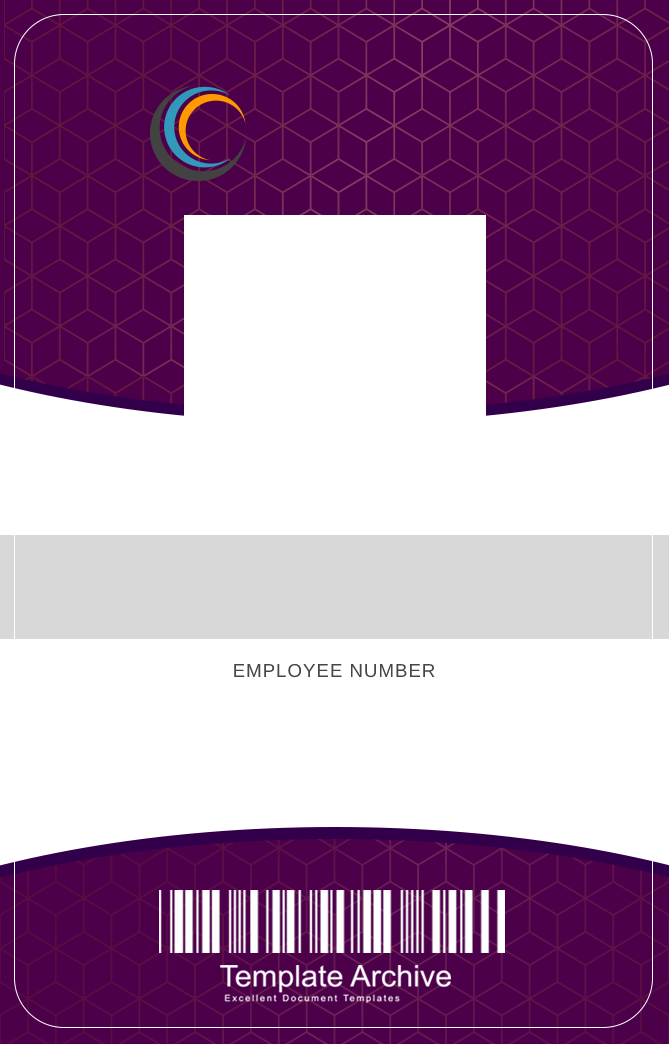
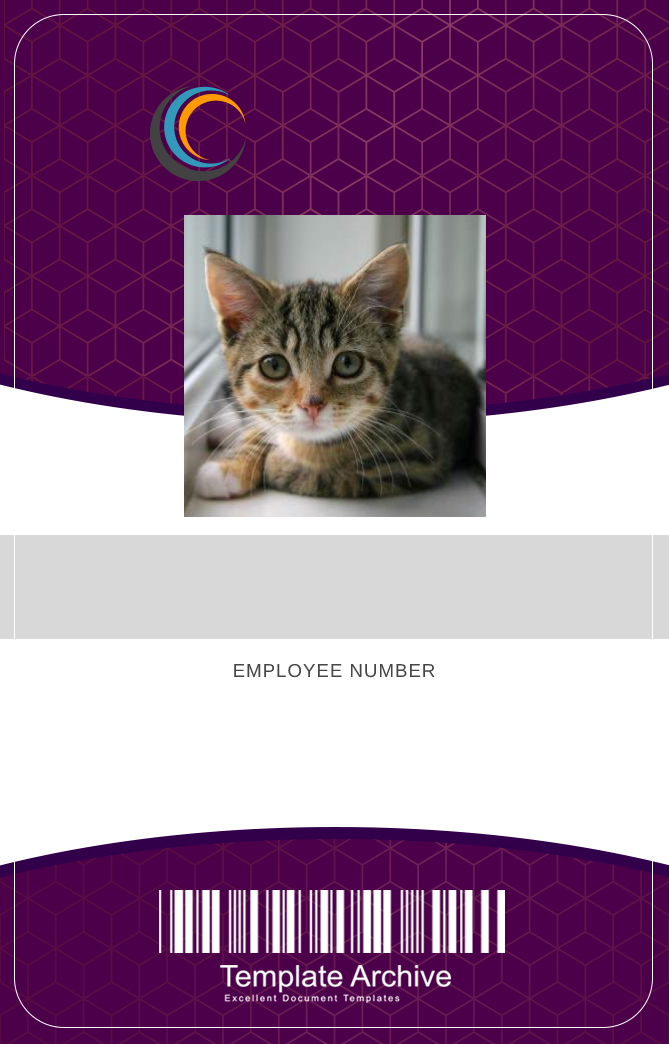
imported methods to print image on badge background, save successfully,  added font styling for badges

Changed region(s): [[0.2691, 0.1839, 0.7474, 0.5211]]

diff --git a/Util.cs b/Util.cs
@@ -55,14 +55,29 @@ namespace CatWorx.BadgeMaker
             int EMPLOYEE_ID_START_Y = 690;
             int EMPLOYEE_ID_WIDTH = BADGE_WIDTH;
             int EMPLOYEE_ID_HEIGHT = 100;
+            
+            // Graphics objects
+            StringFormat format = new StringFormat();
+            format.Alignment = StringAlignment.Center;
+            int FONT_SIZE = 32;
+            Font font = new Font("Arial", FONT_SIZE);
+            Font monoFont = new Font("Courier New", FONT_SIZE);
+            SolidBrush brush = new SolidBrush(Color.Black);
+            
             // create image
-            Image newImage = Image.FromFile("badge.png");
-            newImage.Save("data/employeeBadge.png");
             using(WebClient client = new WebClient())
             {
                 for (int i = 0; i < employees.Count; i++)
                 {
-                    
+                    Image photo = Image.FromStream(client.OpenRead(employees[i].GetPhotoURL()));
+                    Image background = Image.FromFile("badge.png");
+                    Image badge = new Bitmap(BADGE_WIDTH, BADGE_HEIGHT);
+                    Graphics graphic = Graphics.FromImage(badge);
+                    graphic.DrawImage(background, new Rectangle(0, 0, BADGE_WIDTH, BADGE_HEIGHT));
+                    graphic.DrawImage(photo, new Rectangle(PHOTO_START_X, PHOTO_START_Y, PHOTO_WIDTH, PHOTO_HEIGHT));
+                    badge.Save("data/employeeBadge.png");
+
+                   
                 }
             }
         }
